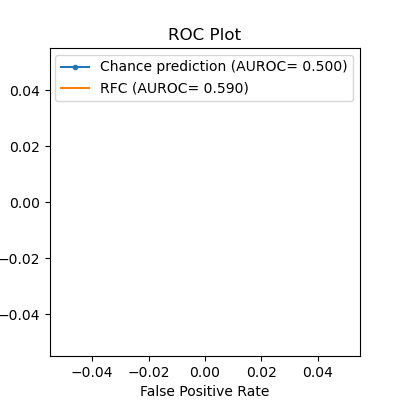
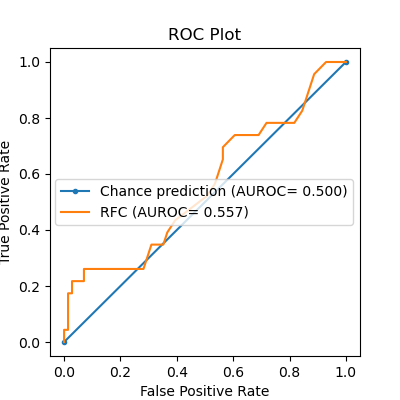
Got all datasets running except ENZYMES and FIRSTMM_DB.  Uploading outputs.

diff --git a/src/Kernel_RFC.py b/src/Kernel_RFC.py
@@ -103,19 +103,21 @@ def perform_rfc(config, kernel, data, graph_labels, data_time):
 
 
 if __name__ == "__main__":
-    # BZR has an error message.  It's index 0
-    # "ENZYMES" and "FIRSTMM_DB" both have an error appear.  ENZYMES is index 4
-    # "PROTEINS" is the best file to run against index 7
-
     script_name = "Kernel_RFC"
 
     configs = get_configs(script_name)
     output_file = open(configs[0]["out_tsv_file"], "wt")
     tsv_writer = get_tsv_writer(output_file)
 
-    # change the following line to whatever dataset you want to test,
-    # or comment it out if you want to run them all
-    configs = [configs[7]]
+    # Change the following lines to whatever dataset you want to test,
+    # or comment them out if you want to run all datasets.
+    # Skipping ENZYMES and FIRSTMM_DB due to error messages
+    configs = [configs[0],
+               configs[1],
+               configs[2],
+               configs[3],
+               configs[6],
+               configs[7]]
 
     for conf in configs:
         print("Working on dataset: " + conf["name"])
